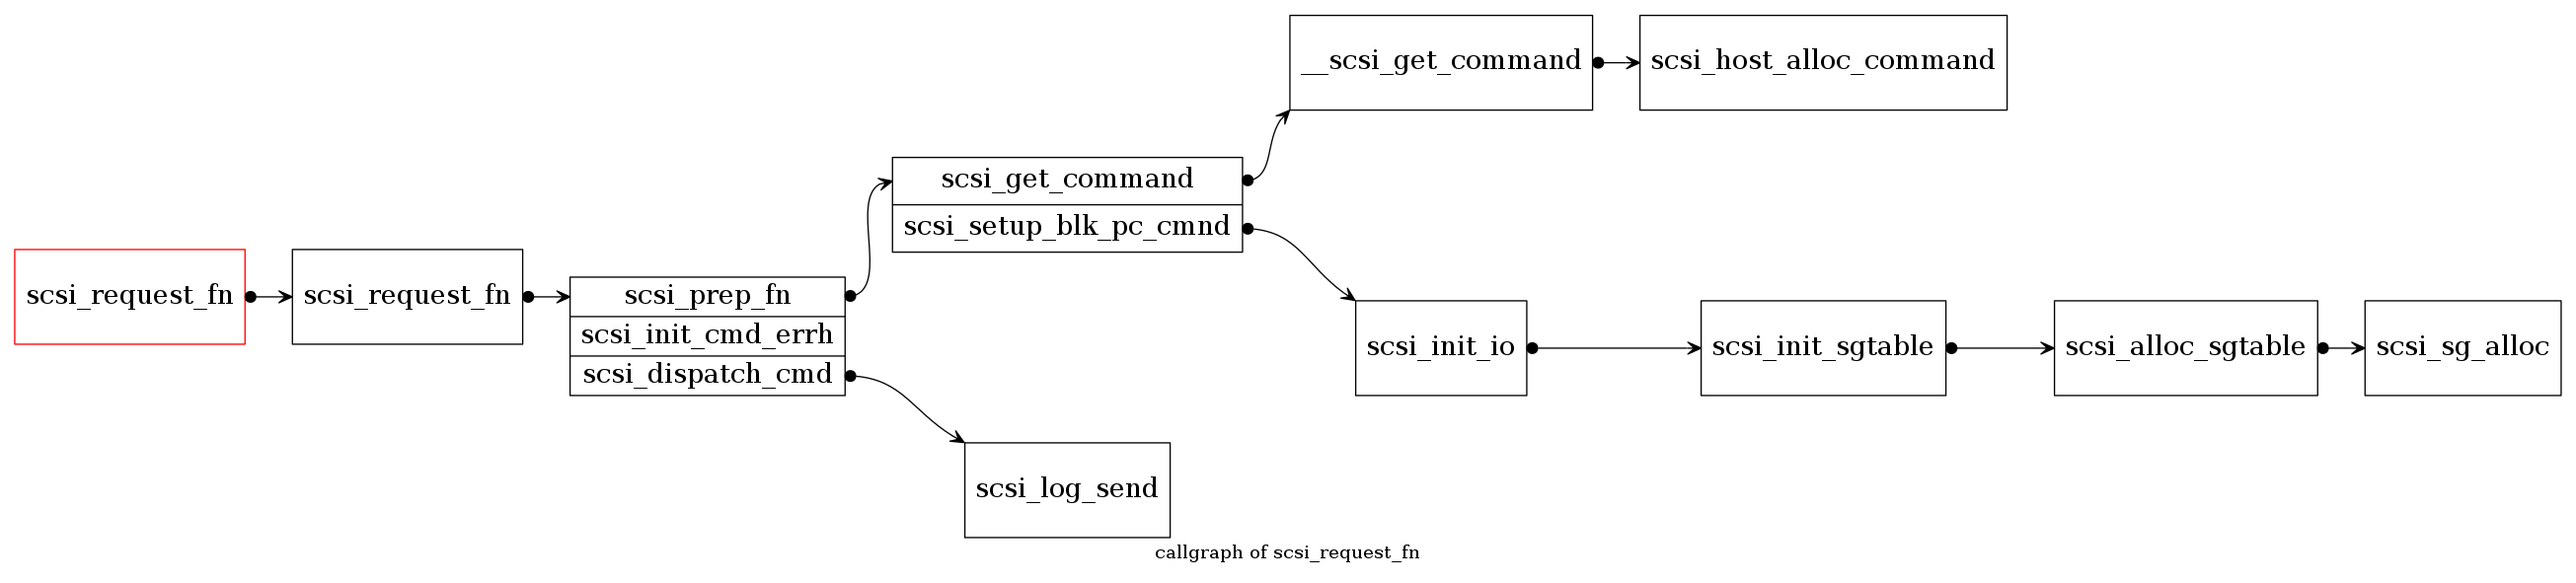
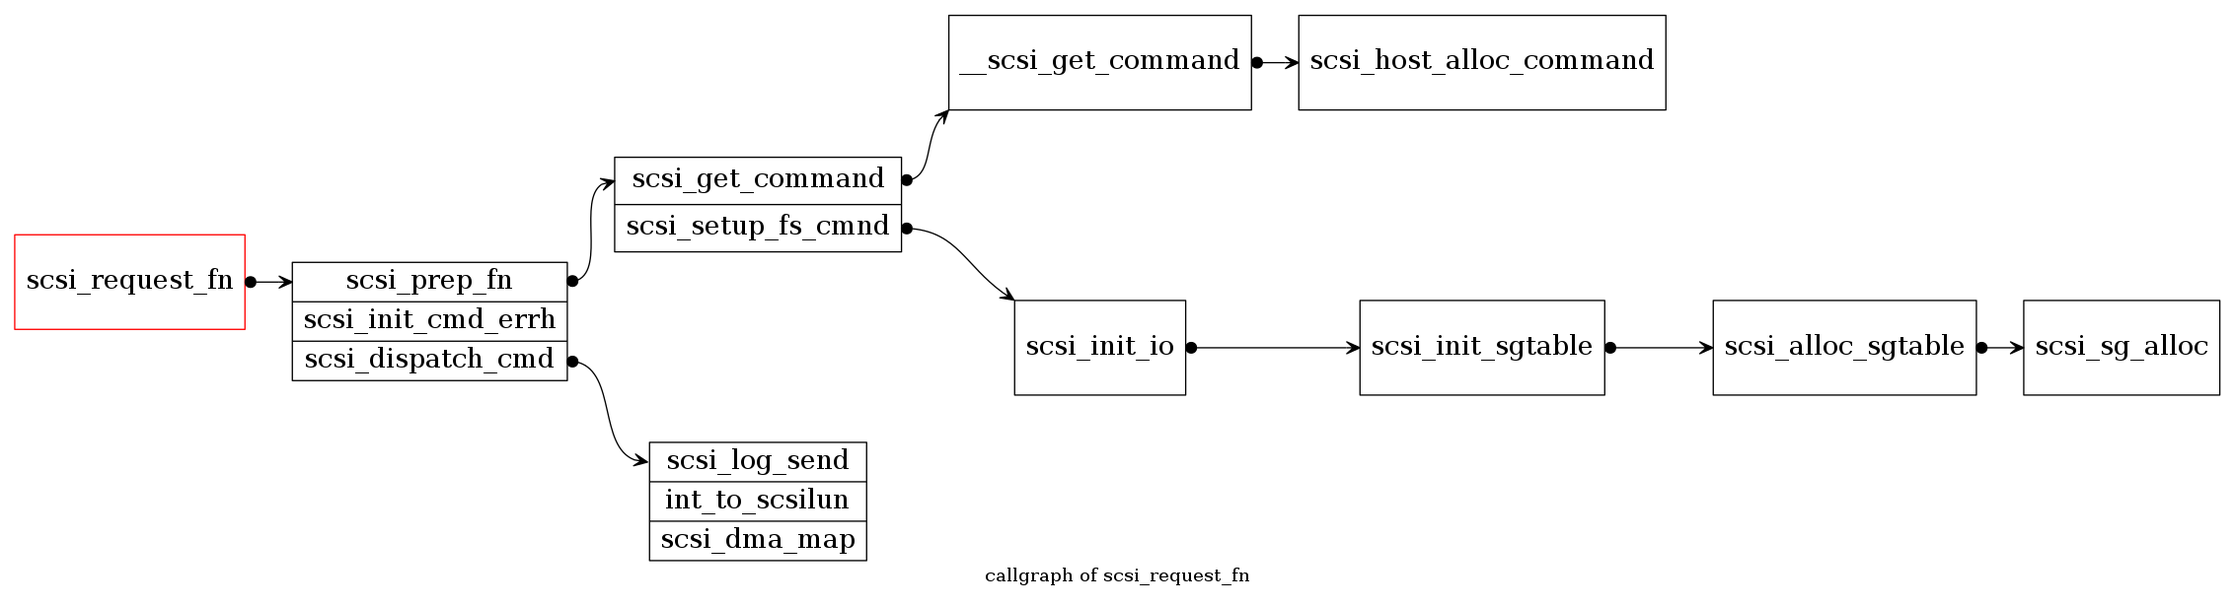
remove node if root is the same to it's children

diff --git a/callee.py b/callee.py
@@ -97,7 +97,15 @@ class Tree:
         self.core_content = ""
         self.id = -1
 
-    def travel_tree(self, node):
+    def travel_tree(self):
+        if len(self.root.children) == 1 and self.root.data == self.root.children[0].data:
+            self.root = self.root.children[0]
+            self.root.parent = None
+            self.root.is_root = True
+
+        self._travel_tree(self.root)
+
+    def _travel_tree(self, node):
         if node.first_child:
             if node.is_root:
                 new_root = "\t %s [label=\"<%s>%s\", color=red];\n" %(node.id, node.data, node.data)
@@ -114,7 +122,7 @@ class Tree:
             #print new_link
 
         for child in node.children:
-            self.travel_tree(child)
+            self._travel_tree(child)
 
 
 def draw_callgraph(funcs):
@@ -167,7 +175,7 @@ def draw_callgraph(funcs):
 
     #print "Begin travel:"
     tree.root = root
-    tree.travel_tree(root)
+    tree.travel_tree()
     footer = "\n\t label=\"callgraph of %s\";\n}\n" %(tree.root.data,)
     content = "%s%s%s" % (header, tree.core_content, footer)
     outfile = write_file(tree.root.data, ".cg.dot", content)

diff --git a/README.md b/README.md
@@ -52,6 +52,14 @@ Solaris
 
 	![callgraph of sdioctl](/examples/images/sdioctl.bt.png)
 
+Details
+=======
+1. In callgraph, from left to right, it presents the throughout program flow which begins from the most left function. It's only **one program call path** that currently your kernel is running. So this tool is dynamic, not like Doxygen. Doxgen is static analysis. It couldn't give me the whole path.
+
+2. In the same list box of callgraph, it presents its parent call them **step by step**, one and one. If it enters and calls other functions, you will 
+see that it points to his children.
+
+3. There exists these paths that they have the same root parent, because we are **dynamic**. The same function could have different path in different context. So I have to add some random number in the output name.
 
 Usage
 ======
